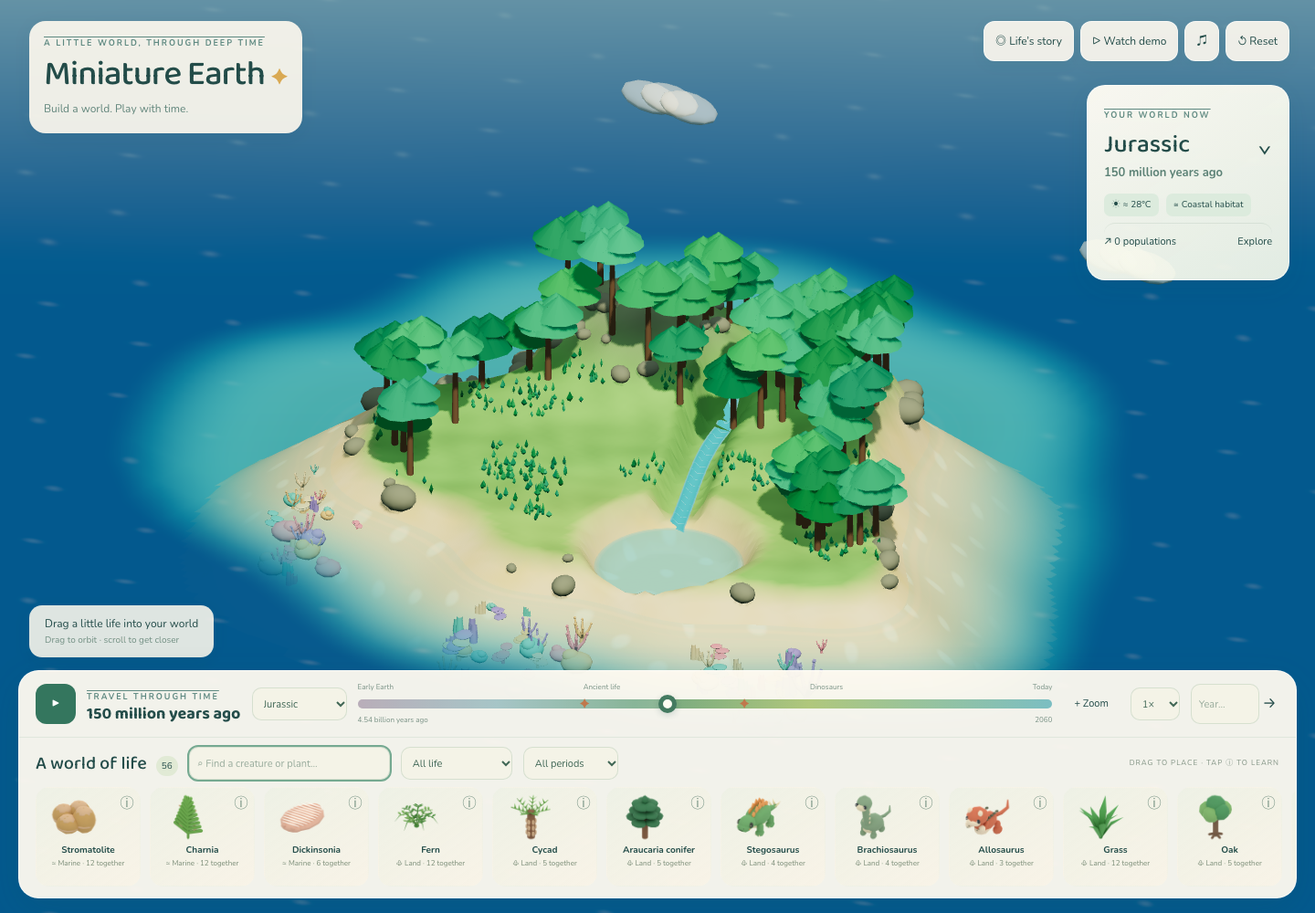
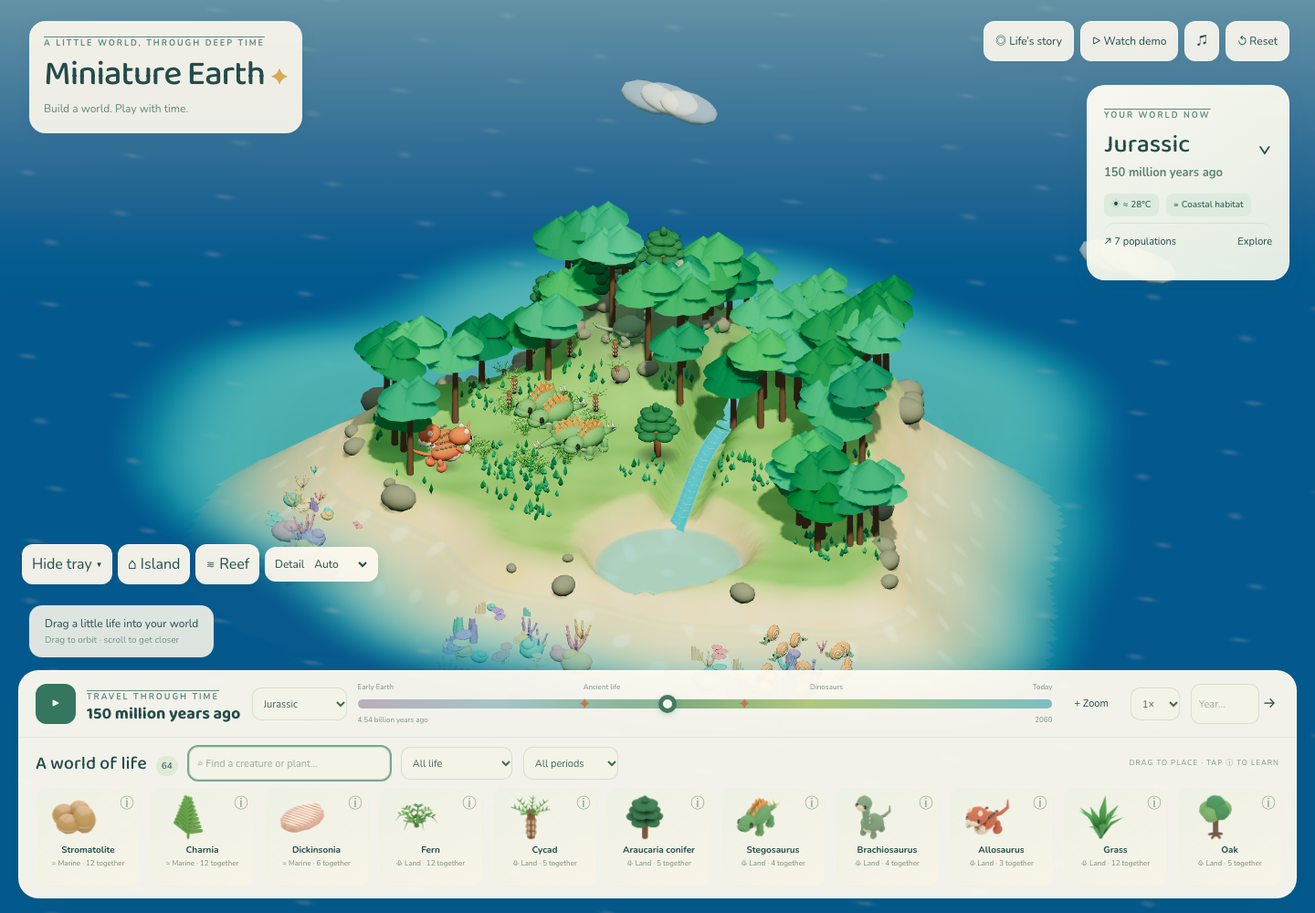
Milestone 7: polish mobile exploration and validate the complete MVP

diff --git a/src/ui/GameUI.tsx b/src/ui/GameUI.tsx
@@ -12,7 +12,8 @@ import {useDemo} from './demo';
 import {useAudio,playSound} from '../audio';
 import manifest from '../../public/models/manifest.json';
 const available=new Set(manifest.map(m=>m.id));
-export function GameUI(){useAutoplay();useAudio();useDemo();const g=useGame(),sim=useSimState(),era=eraAt(sim.year),[query,setQuery]=useState(''),[category,setCategory]=useState('All life'),[period,setPeriod]=useState('All periods'),[panel,setPanel]=useState<'world'|'populations'|'lineage'|null>(null),[zoom,setZoom]=useState(false),[notice,setNotice]=useState(''),[date,setDate]=useState('');const track=useRef<HTMLDivElement>(null);
+export function GameUI(){useAutoplay();useAudio();useDemo();const g=useGame(),sim=useSimState(),era=eraAt(sim.year),[collapsed,setCollapsed]=useState(false),[query,setQuery]=useState(''),[category,setCategory]=useState('All life'),[period,setPeriod]=useState('All periods'),[panel,setPanel]=useState<'world'|'populations'|'lineage'|null>(null),[zoom,setZoom]=useState(false),[notice,setNotice]=useState(''),[date,setDate]=useState('');const track=useRef<HTMLDivElement>(null);
+useEffect(()=>{if(typeof matchMedia!=='function')return;const media=matchMedia('(max-width:700px)');const change=()=>setCollapsed(media.matches);change();media.addEventListener('change',change);return()=>media.removeEventListener('change',change)},[]);
 useEffect(()=>{const deck=document.querySelector('.explorer-dock');if(!deck||typeof ResizeObserver==='undefined')return;const r=new ResizeObserver(()=>document.documentElement.style.setProperty('--dock-height',deck.getBoundingClientRect().height+'px'));r.observe(deck);return()=>r.disconnect()},[]);
 useEffect(()=>{const handler=(e:Event)=>{setNotice((e as CustomEvent<string>).detail)};window.addEventListener('placement-notice',handler);return()=>window.removeEventListener('placement-notice',handler)},[]);
 useEffect(()=>{if(notice){const timer=setTimeout(()=>setNotice(''),4200);return()=>clearTimeout(timer)}},[notice]);
@@ -25,6 +26,6 @@ return <div className={'overhaul-ui'+(g.focused?' organism-open':'')}><header cl
 <aside className="world-card"><span className="overline">YOUR WORLD NOW</span><button className="era-heading" onClick={()=>setPanel(panel==='world'?null:'world')}><span>{era.name}</span><span>⌄</span></button><strong>{sim.yearLabel}</strong><div className="climate-chips"><span>☀ ≈ {sim.env.temp.toFixed(0)}°C</span><span>≋ {era.marine?'Ancient coast':'Coastal habitat'}</span></div><button className="population-link" onClick={()=>setPanel(panel==='populations'?null:'populations')}>↗ {Object.values(sim.populations).filter(n=>n>0).length} populations <span>Explore</span></button></aside>
 {panel&&<aside className="detail-panel"><button className="close" aria-label="Close panel" onClick={()=>setPanel(null)}>×</button>{panel==='world'?<><span className="overline">REPRESENTATIVE HABITAT</span><h2>{era.climate}</h2><p>{era.description}</p><p><b>Oxygen:</b> {era.oxygen}</p><small>Landscape and local temperature are illustrative game settings. Historical conditions varied widely.</small></>:panel==='populations'?<><h2>A living balance</h2><p>Resident populations share the ecosystem with your added groups. Historical communities are curated regional snapshots; their scene windows do not force extinction of your experiments. Rendered animals represent the simulated population.</p>{Object.entries(sim.populations).map(([id,n])=><button className="population-row" key={id} onClick={()=>g.focus(id)}><span>{byId[id].name}</span><b>{Math.round(n)}</b><small>{n===0?'extinct':n<4?'struggling':'living'}</small></button>)}{!g.placements.length&&<p>Drag an organism into the world to add your own group.</p>}</>:<Lineages/>}</aside>}
 {g.focused&&<aside className="organism-detail"><button className="close" aria-label="Close organism" onClick={()=>g.focus(null)}>×</button><img src={'/icons/org_'+g.focused+'.png'} alt=""/><span className="overline">MEET YOUR NEIGHBOUR</span><h2>{byId[g.focused].name}</h2>{metadata(byId[g.focused]).scientificName&&<i>{metadata(byId[g.focused]).scientificName}</i>}<p>{byId[g.focused].fact}</p><p className="suitability">{suitability(byId[g.focused],sim.year)}</p><p>{metadata(byId[g.focused]).habitat} · {categoryOf(byId[g.focused])}</p><ScienceDetails id={g.focused} sim={sim}/><StoryDetails id={g.focused}/><button className="primary" onClick={()=>{g.selectSpecies(g.focused);g.focus(null)}}>Place a group of {groupSize(byId[g.focused])}</button></aside>}
-<ViewControls/><div className="world-instruction">{notice||g.caption||(g.selectedSpeciesId?`Drop ${byId[g.selectedSpeciesId].name} on ${byId[g.selectedSpeciesId].zone==='sea'?'water':'land'} · Esc to cancel`:'Drag a little life into your world')} {!g.selectedSpeciesId&&!notice&&<span>Drag to orbit · scroll to get closer</span>}</div>
-<section className="explorer-dock"><div className="time-controls"><button className="play-or-pause" aria-label={g.playing?'Pause':'Play'} onClick={g.togglePlay}>{g.playing?'Ⅱ':'▶'}</button><div className="time-now"><span className="overline">TRAVEL THROUGH TIME</span><b>{sim.yearLabel}</b></div><select aria-label="Geological period" value={era.id} onChange={e=>{const p=eras.find(v=>v.id===e.target.value)!;g.setTick(yearToTick(p.snap));playSound('whoosh')}}>{eras.map(p=><option value={p.id} key={p.id}>{p.name}</option>)}</select><div className="timeline-area"><div className="era-labels"><span>Early Earth</span><span>Ancient life</span><span>Dinosaurs</span><span>Today</span></div><div className="time-track" ref={track} role="slider" tabIndex={0} aria-label="Earth timeline" aria-valuemin={start} aria-valuemax={end} aria-valuenow={g.tick} aria-valuetext={sim.yearLabel} onPointerDown={e=>{e.currentTarget.setPointerCapture(e.pointerId);scrub(e)}} onPointerMove={e=>{if(e.buttons===1)scrub(e)}}><div className="track-fill" style={{width:`${(g.tick-start)/(end-start)*100}%`}}/><i style={{left:`${(g.tick-start)/(end-start)*100}%`}}/>{[-252e6,-66e6].map(y=><b title={y===-252e6?'End-Permian extinction':'End-Cretaceous extinction'} key={y} style={{left:`${(yearToTick(y)-start)/(end-start)*100}%`}}>✦</b>)}</div><div className="track-dates"><span>{formatYear(tickToYear(start))}</span><span>{formatYear(tickToYear(end))}</span></div></div><button className={zoom?'chosen':''} onClick={()=>setZoom(!zoom)}>{zoom?'− All time':'+ Zoom'}</button><select aria-label="Playback speed" value={g.speed} onChange={e=>g.setSpeed(Number(e.target.value) as 1|4|16)}>{[1,4,16].map(n=><option key={n} value={n}>{n}×</option>)}</select><form onSubmit={e=>{e.preventDefault();if(Number.isFinite(Number(date)))g.setTick(yearToTick(Number(date)))}}><input aria-label="Go to year (negative for BCE)" type="number" placeholder="Year…" value={date} onChange={e=>setDate(e.target.value)}/><button aria-label="Go to year">→</button></form>{sim.year>=2026&&<div className="future-switch">{(['Protect','Exploit'] as const).map(s=><button key={s} className={g.scenario===s?'chosen':''} onClick={()=>g.setScenario(s)}>{s}</button>)}</div>}</div>
+<ViewControls collapsed={collapsed} toggle={()=>setCollapsed(!collapsed)}/><div className="world-instruction">{notice||g.caption||(g.selectedSpeciesId?`Drop ${byId[g.selectedSpeciesId].name} on ${byId[g.selectedSpeciesId].zone==='sea'?'water':'land'} · Esc to cancel`:'Drag a little life into your world')} {!g.selectedSpeciesId&&!notice&&<span>Drag to orbit · scroll to get closer</span>}</div>
+<section className={'explorer-dock'+(collapsed?' catalogue-collapsed':'')}><div className="time-controls"><button className="play-or-pause" aria-label={g.playing?'Pause':'Play'} onClick={g.togglePlay}>{g.playing?'Ⅱ':'▶'}</button><div className="time-now"><span className="overline">TRAVEL THROUGH TIME</span><b>{sim.yearLabel}</b></div><select aria-label="Geological period" value={era.id} onChange={e=>{const p=eras.find(v=>v.id===e.target.value)!;g.setTick(yearToTick(p.snap));playSound('whoosh')}}>{eras.map(p=><option value={p.id} key={p.id}>{p.name}</option>)}</select><div className="timeline-area"><div className="era-labels"><span>Early Earth</span><span>Ancient life</span><span>Dinosaurs</span><span>Today</span></div><div className="time-track" ref={track} role="slider" tabIndex={0} aria-label="Earth timeline" aria-valuemin={start} aria-valuemax={end} aria-valuenow={g.tick} aria-valuetext={sim.yearLabel} onPointerDown={e=>{e.currentTarget.setPointerCapture(e.pointerId);scrub(e)}} onPointerMove={e=>{if(e.buttons===1)scrub(e)}}><div className="track-fill" style={{width:`${(g.tick-start)/(end-start)*100}%`}}/><i style={{left:`${(g.tick-start)/(end-start)*100}%`}}/>{[-252e6,-66e6].map(y=><b title={y===-252e6?'End-Permian extinction':'End-Cretaceous extinction'} key={y} style={{left:`${(yearToTick(y)-start)/(end-start)*100}%`}}>✦</b>)}</div><div className="track-dates"><span>{formatYear(tickToYear(start))}</span><span>{formatYear(tickToYear(end))}</span></div></div><button className={zoom?'chosen':''} onClick={()=>setZoom(!zoom)}>{zoom?'− All time':'+ Zoom'}</button><select aria-label="Playback speed" value={g.speed} onChange={e=>g.setSpeed(Number(e.target.value) as 1|4|16)}>{[1,4,16].map(n=><option key={n} value={n}>{n}×</option>)}</select><form onSubmit={e=>{e.preventDefault();if(Number.isFinite(Number(date)))g.setTick(yearToTick(Number(date)))}}><input aria-label="Go to year (negative for BCE)" type="number" placeholder="Year…" value={date} onChange={e=>setDate(e.target.value)}/><button aria-label="Go to year">→</button></form>{sim.year>=2026&&<div className="future-switch">{(['Protect','Exploit'] as const).map(s=><button key={s} className={g.scenario===s?'chosen':''} onClick={()=>g.setScenario(s)}>{s}</button>)}</div>}</div>
 <div className="catalogue-header"><h2>A world of life <span>{filtered.length}</span></h2><input aria-label="Search organisms" placeholder="⌕ Find a creature or plant…" value={query} onChange={e=>setQuery(e.target.value)}/><select aria-label="Filter organism category" value={category} onChange={e=>setCategory(e.target.value)}>{['All life','Animals','Plants','Algae & microbes','Marine','Endangered'].map(c=><option key={c}>{c}</option>)}</select><select aria-label="Filter organism era" value={period} onChange={e=>setPeriod(e.target.value)}>{['All periods',...new Set(species.map(s=>s.era))].map(c=><option key={c}>{c}</option>)}</select><small>DRAG TO PLACE · TAP ⓘ TO LEARN</small></div><div className="life-cards">{filtered.map(s=><div key={s.id} className={'life-card '+(g.selectedSpeciesId===s.id?'selected':'')}><button className="drag-card" aria-label={'Place '+s.name} onPointerDown={e=>beginDrag(e,s.id)} onClick={()=>g.selectSpecies(s.id)}><img src={available.has(s.id)?'/icons/org_'+s.id+'.png':undefined} alt="" draggable={false}/><b>{s.name}</b><span>{s.zone==='sea'?'≈ Marine':'♧ Land'} · {groupSize(s)} together</span></button><button className="learn" aria-label={'Learn about '+s.name} onClick={()=>g.focus(s.id)}>ⓘ</button><Badge id={s.id}/></div>)}</div></section><Impact/></div>}

diff --git a/src/scene/World.tsx b/src/scene/World.tsx
@@ -1,4 +1,4 @@
-import {Suspense,useMemo,useRef,type ReactNode} from 'react';
+import {Suspense,useMemo,useRef,useEffect,type ReactNode} from 'react';
 import {Canvas,useThree,useFrame} from '@react-three/fiber';
 import {OrbitControls,OrthographicCamera,Html} from '@react-three/drei';
 import {ACESFilmicToneMapping,PCFSoftShadowMap,Color,Fog} from 'three';
@@ -6,7 +6,10 @@ import {RenderMetrics} from './RenderMetrics';
 import {Environment} from './Environment';
 import {useGame,useSimState} from '../state';
 import {eraAt,landscapeScale} from '../world';
-function AdaptiveResolution(){const {setDpr}=useThree(),sample=useRef({n:0,total:0,level:1});useFrame((_,dt)=>{const s=sample.current;if(s.n++<15)return;s.total+=dt;if(s.n===45){const avg=s.total/30;const level=avg>.055?.65:avg>.03?.8:1;if(level!==s.level){setDpr(level);s.level=level}}});return null}
+function AdaptiveResolution(){const {setDpr}=useThree(),sample=useRef({n:0,total:0,level:1,mode:'auto',first:true});
+ useEffect(()=>{const change=(e:Event)=>{const s=sample.current;s.mode=(e as CustomEvent<string>).detail;s.level=s.mode==='low'?.55:1;s.n=0;s.total=0;setDpr(s.level)};window.addEventListener('world-quality',change);return()=>window.removeEventListener('world-quality',change)},[setDpr]);
+ useFrame((_,dt)=>{const s=sample.current;if(s.mode!=='auto'||dt>.3)return;s.total+=dt;s.n++;if(s.n>=(s.first?45:90)){const avg=s.total/s.n;const target=avg>.055?.55:avg>.03?.75:avg<.022?1:s.level;const level=target<s.level?target:Math.min(target,s.level+.1);s.first=false;if(level!==s.level){s.level=level;setDpr(level)}s.n=0;s.total=0}});return null}
 function Sky({color}:{color:string}){const {scene}=useThree(),target=useMemo(()=>new Color(color),[color]);useFrame((_,dt)=>{if(scene.background instanceof Color)scene.background.lerp(target,1-Math.exp(-dt*3));if(scene.fog instanceof Fog)scene.fog.color.lerp(target,1-Math.exp(-dt*3))});return null}
-function Diorama({children}:{children:ReactNode}){const {size}=useThree(),sim=useSimState(),era=eraAt(sim.year),selected=useGame(s=>s.selectedSpeciesId),scale=landscapeScale(sim.year),zoom=Math.min(size.width/(size.width<800?40:48),size.height/39)/scale;return <><color attach="background" args={["#bee6e7"]}/><fog attach="fog" args={["#bee6e7",65,145]}/><Sky color={era.sky}/><OrthographicCamera makeDefault position={[35,32,40]} zoom={zoom} near={.1} far={220}/><OrbitControls target={[0,1.4,0]} enablePan enableRotate={!selected} minPolarAngle={.45} maxPolarAngle={1.18} minZoom={zoom*.75} maxZoom={zoom*2.5} enableDamping/><hemisphereLight args={['#e7fbff','#59776b',1.3]}/><directionalLight key={era.id} shadow-autoUpdate={false} shadow-needsUpdate={true} position={[15,28,12]} color="#fff0d2" intensity={3.2} castShadow shadow-mapSize={[1024,1024]} shadow-camera-left={-34} shadow-camera-right={34} shadow-camera-top={34} shadow-camera-bottom={-34} shadow-normalBias={.045} shadow-bias={-.0001}/><Environment/>{children}<RenderMetrics/><AdaptiveResolution/></>}
+function Diorama({children}:{children:ReactNode}){const controls=useRef<React.ComponentRef<typeof OrbitControls>>(null);const {size,camera}=useThree(),sim=useSimState(),era=eraAt(sim.year),selected=useGame(s=>s.selectedSpeciesId),scale=landscapeScale(sim.year),zoom=Math.min(size.width/(size.width<800?40:48),size.height/39)/scale;
+ useEffect(()=>{const view=(e:Event)=>{const reef=(e as CustomEvent<string>).detail==='reef';if(!controls.current)return;controls.current.target.set(reef?12*scale:0,reef?-.4:1.4,reef?8*scale:0);camera.position.set(reef?28*scale:35,reef?19*scale:32,reef?30*scale:40);camera.zoom=zoom*(reef?2.2:1);camera.updateProjectionMatrix();controls.current.update()};window.addEventListener('world-camera',view);return()=>window.removeEventListener('world-camera',view)},[camera,zoom,scale]);return <><color attach="background" args={["#bee6e7"]}/><fog attach="fog" args={["#bee6e7",65,145]}/><Sky color={era.sky}/><OrthographicCamera makeDefault position={[35,32,40]} zoom={zoom} near={.1} far={220}/><OrbitControls ref={controls} target={[era.marine?8*scale:0,1.4,era.marine?5*scale:0]} enablePan enableRotate={!selected} minPolarAngle={.45} maxPolarAngle={1.18} minZoom={zoom*.75} maxZoom={zoom*2.5} enableDamping/><hemisphereLight args={['#e7fbff','#59776b',1.3]}/><directionalLight key={era.id} shadow-autoUpdate={false} shadow-needsUpdate={true} position={[15,28,12]} color="#fff0d2" intensity={3.2} castShadow shadow-mapSize={[1024,1024]} shadow-camera-left={-34} shadow-camera-right={34} shadow-camera-top={34} shadow-camera-bottom={-34} shadow-normalBias={.045} shadow-bias={-.0001}/><Environment/>{children}<RenderMetrics/><AdaptiveResolution/></>}
 export function World({children}:{children?:ReactNode}){return <Canvas shadows={{type:PCFSoftShadowMap}} dpr={1} gl={{antialias:true,toneMapping:ACESFilmicToneMapping,toneMappingExposure:1}}><Suspense fallback={<Html center><div className="panel">Growing a little world…</div></Html>}><Diorama>{children}</Diorama></Suspense></Canvas>}

diff --git a/src/scene/BatchedOrganisms.tsx b/src/scene/BatchedOrganisms.tsx
@@ -3,7 +3,7 @@ import {mergeGeometries} from 'three/addons/utils/BufferGeometryUtils.js';
 import {useMemo,useRef,useEffect,useState} from 'react';
 import {useFrame,useThree} from '@react-three/fiber';
 import {useGLTF} from '@react-three/drei';
-import {CanvasTexture,Color,InstancedMesh,Matrix4,Mesh,Object3D} from 'three';
+import {CanvasTexture,Color,InstancedMesh,Matrix4,Mesh,MeshLambertMaterial,Object3D} from 'three';
 import {byId} from '../sim/simulation';
 import {terrainHeight,eraAt} from '../world';
 import {inZone} from '../state/positions';
@@ -14,8 +14,8 @@ export function BatchedOrganisms({id,items,year,neighbors}:{id:string;items:Rend
  const camera=useThree(state=>state.camera);const [distant,setDistant]=useState(()=>byId[id].height*camera.zoom<44);
  useFrame(()=>{const pixels=byId[id].height*camera.zoom;if(distant&&pixels>52)setDistant(false);else if(!distant&&pixels<40)setDistant(true)});
  const {scene}=useGLTF('/models/'+(distant?'lod/':'')+'org_'+id+'.glb');
- const parts=useMemo(()=>{scene.updateMatrixWorld(true);const parts:{mesh:Mesh;joint:Matrix4;relative:Matrix4;name:string}[]=[];scene.traverse(o=>{if(o instanceof Mesh){let owner:Object3D=o;while(owner.parent&&owner.parent.name!=='Root'&&owner.parent!==scene)owner=owner.parent;parts.push({mesh:o,joint:owner.matrixWorld.clone(),relative:owner.matrixWorld.clone().invert().multiply(o.matrixWorld),name:owner.name})}});if(distant&&parts.length){const copies=parts.map(p=>{const g=p.mesh.geometry.clone();g.applyMatrix4(p.mesh.matrixWorld);for(const key of Object.keys(g.attributes))if(!['position','normal','color'].includes(key))g.deleteAttribute(key);return g});const merged=mergeGeometries(copies);copies.forEach(g=>g.dispose());if(merged){const mesh=new Mesh(merged,parts[0].mesh.material);mesh.userData.mergedDistant=true;return [{mesh,joint:new Matrix4(),relative:new Matrix4(),name:'Body'}]}}return parts},[scene,distant]);
- useEffect(()=>()=>{parts.forEach(p=>{if(p.mesh.userData.mergedDistant)p.mesh.geometry.dispose()})},[parts,distant]);
+ const parts=useMemo(()=>{scene.updateMatrixWorld(true);const parts:{mesh:Mesh;joint:Matrix4;relative:Matrix4;name:string}[]=[];scene.traverse(o=>{if(o instanceof Mesh){let owner:Object3D=o;while(owner.parent&&owner.parent.name!=='Root'&&owner.parent!==scene)owner=owner.parent;parts.push({mesh:o,joint:owner.matrixWorld.clone(),relative:owner.matrixWorld.clone().invert().multiply(o.matrixWorld),name:owner.name})}});if(distant&&parts.length){const copies=parts.map(p=>{const g=p.mesh.geometry.clone();g.applyMatrix4(p.mesh.matrixWorld);for(const key of Object.keys(g.attributes))if(!['position','normal','color'].includes(key))g.deleteAttribute(key);return g});const merged=mergeGeometries(copies);copies.forEach(g=>g.dispose());if(merged){const mesh=new Mesh(merged,new MeshLambertMaterial({vertexColors:true}));mesh.userData.mergedDistant=true;return [{mesh,joint:new Matrix4(),relative:new Matrix4(),name:'Body'}]}}return parts},[scene,distant]);
+ useEffect(()=>()=>{parts.forEach(p=>{if(p.mesh.userData.mergedDistant){p.mesh.geometry.dispose();(p.mesh.material as MeshLambertMaterial).dispose()}})},[parts,distant]);
  const contact=useRef<InstancedMesh>(null),contactTransform=useMemo(()=>new Object3D(),[]),shadow=useMemo(()=>{const c=document.createElement('canvas');c.width=c.height=32;const ctx=c.getContext('2d')!,g=ctx.createRadialGradient(16,16,0,16,16,16);g.addColorStop(0,'rgba(25,45,30,.3)');g.addColorStop(1,'rgba(25,45,30,0)');ctx.fillStyle=g;ctx.fillRect(0,0,32,32);return new CanvasTexture(c)},[]);useEffect(()=>()=>shadow.dispose(),[shadow]);
  const motions=useRef(new Map<string,AnimalMotion>());
  useEffect(()=>{motions.current.clear();births.current.clear()},[eraAt(year).id]);

diff --git a/src/ui/ViewControls.tsx b/src/ui/ViewControls.tsx
@@ -1,2 +1,2 @@
 import {useState} from 'react';
-export function ViewControls(){const [quality,setQuality]=useState('auto');return <div className="view-controls"><button onClick={()=>window.dispatchEvent(new CustomEvent('world-camera',{detail:'overview'}))}>⌂ Island</button><button onClick={()=>window.dispatchEvent(new CustomEvent('world-camera',{detail:'reef'}))}>≋ Reef</button><label>Detail <select aria-label="Render quality" value={quality} onChange={e=>{setQuality(e.target.value);window.dispatchEvent(new CustomEvent('world-quality',{detail:e.target.value}))}}><option value="auto">Auto</option><option value="low">Smooth</option><option value="high">Crisp</option></select></label></div>}
+export function ViewControls({collapsed,toggle}:{collapsed:boolean;toggle:()=>void}){const [quality,setQuality]=useState('auto');return <div className="view-controls"><button aria-expanded={!collapsed} onClick={toggle}>{collapsed?'Browse life ▴':'Hide tray ▾'}</button><button onClick={()=>window.dispatchEvent(new CustomEvent('world-camera',{detail:'overview'}))}>⌂ Island</button><button onClick={()=>window.dispatchEvent(new CustomEvent('world-camera',{detail:'reef'}))}>≋ Reef</button><label>Detail <select aria-label="Render quality" value={quality} onChange={e=>{setQuality(e.target.value);window.dispatchEvent(new CustomEvent('world-quality',{detail:e.target.value}))}}><option value="auto">Auto</option><option value="low">Smooth</option><option value="high">Crisp</option></select></label></div>}

diff --git a/src/styles/global.css b/src/styles/global.css
@@ -26,3 +26,7 @@ body {
 canvas { display: block; }
 
 ::selection { background: #8cc15255; }
+
+.view-controls{position:absolute;left:24px;bottom:calc(var(--dock-height,240px) + 110px);display:flex;gap:6px;align-items:center;pointer-events:auto}.view-controls button,.view-controls label{background:#fff9eef0;border:1px solid #fff8;border-radius:12px;padding:5px 10px;box-shadow:0 3px 12px #26323815}.view-controls label{font-size:12px}.view-controls select{background:transparent;padding:4px}.lineage>div{display:flex;flex-direction:column;align-items:center;width:100%}.lineage>div button{width:100%}@media(max-width:700px){.view-controls{left:12px;bottom:calc(var(--dock-height,240px) + 95px)}.view-controls button,.view-controls label{padding:3px 6px;font-size:12px}}
+
+.catalogue-collapsed .catalogue-header,.catalogue-collapsed .life-cards{display:none}

diff --git a/src/scene/RenderMetrics.tsx b/src/scene/RenderMetrics.tsx
@@ -1,4 +1,4 @@
 import {useFrame} from '@react-three/fiber';
 declare global {interface Window {__renderMetrics?:{calls:number;triangles:number;geometries:number;frameMs:number}}}
 /** Opt-in QA instrumentation; no timers, storage or telemetry. */
-export function RenderMetrics(){useFrame(({gl},dt)=>{if(new URLSearchParams(location.search).has('profile'))window.__renderMetrics={calls:gl.info.render.calls,triangles:gl.info.render.triangles,geometries:gl.info.memory.geometries,frameMs:dt*1000}});return null}
+export function RenderMetrics(){const enabled=new URLSearchParams(location.search).has('profile');useFrame(({gl},dt)=>{if(enabled)window.__renderMetrics={calls:gl.info.render.calls,triangles:gl.info.render.triangles,geometries:gl.info.memory.geometries,frameMs:dt*1000}});return null}

diff --git a/src/state/communities.ts b/src/state/communities.ts
@@ -1,8 +1,8 @@
 import type {Placement} from '../sim/types';
 import {yearToTick} from '../sim/timeline';
 /** Curated regional snapshots. Windows are scene coverage, not claimed taxon origination dates.
- * Resident patches exchange individuals with the surrounding representative habitat.
- * Player populations never receive this migration or historical retirement. */
+ * Each patch is introduced once, then follows the same ecology as player populations.
+ * Player populations never receive historical retirement. */
 type Patch=[id:string,count:number,x:number,z:number];
 interface Community {id:string;start:number;end:number;patches:Patch[]}
 export const communities:Community[]=[

diff --git a/art/validate_lods.py b/art/validate_lods.py
@@ -19,5 +19,6 @@ for path in sorted((BASE/'public/models/lod').glob('org_*.glb')):
  assert total<sum(full['accessors'][p['indices']]['count']//3 for m in full['meshes'] for p in m['primitives'])
  report[path.stem]={'triangles':total,'parts':names(doc),'pass':True}
  print('PASS LOD',path.stem,total,flush=True)
-assert len(report)==56
+expected={'org_'+s['id'] for s in json.loads((BASE/'src/sim/data/species.json').read_text())}
+assert set(report)==expected, {'missing':sorted(expected-set(report)),'unexpected':sorted(set(report)-expected)}
 (BASE/'art/reports/lod-validation.json').write_text(json.dumps(report,indent=2)+'\n')

diff --git a/qa/COMPLETION_REVIEW.md b/qa/COMPLETION_REVIEW.md
@@ -1,0 +1,64 @@
+# Miniature Earth — milestone completion review
+
+Completed the seven implementation milestones as a curated browser-game MVP. This is not a claim that every aspirational species or a commercially finished release is complete. All work remains local; no push or deployment.
+
+| Milestone | Result | Evidence |
+| --- | --- | --- |
+| 1. Visual foundation | PASS | Expanded modern island, terrain relief, procedural materials, foliage, atmospheric lighting; retained and visually reviewed. |
+| 2. Oceans and underwater worlds | PASS | Animated depth-coloured water, surf, river highlights, caustics, era-specific reef structures and marine communities; dedicated reef camera. |
+| 3. Living historical ecosystems | PASS | Curated resident windows and era presets; required snapshots contain appropriate life, Hadean stays lifeless; deterministic replay and habitat tests. |
+| 4. Organism interaction | PASS | 64 authored organisms, eight new historical models, group placement, named joints, walking/swimming/flying/rest/forage/flee/pursuit. |
+| 5. Ecological simulation | PASS | Environmental stress, reproduction, finite prey sharing, competition, carrying capacity, disasters and deterministic extinction; pressure explanations. |
+| 6. Evolution | PASS | Inherited thermal variation, offspring mutation, differential survival and reproduction; three cited branching-history chapters. |
+| 7. Final polish | PASS for supported local checks | Mobile tray, camera and quality controls, clearer scene composition, bounded resource use, retained audio and tested controls. Native GPU acceptance remains unavailable. |
+
+## Verification
+
+- Strict TypeScript, production build and all **48 Vitest tests pass**.
+- **46 browser assertions/checks across seven suites**, including drag/drop, invalid habitats, historical scenes, scientific panels, trait replay, lineage navigation, model LOD, animated water, future scrubbing, reset/reload, quality controls and mobile catalogue expansion/collapse. No browser console/page errors.
+- All **67 full GLBs** (64 organisms + 3 retained legacy island assets) pass geometry, hierarchy, dimensions, triangle-budget and transparent-icon contracts.
+- All **64 distant GLBs** pass node identity, joint-transform, paint and index contracts. The checker now derives expected IDs from the catalogue instead of hard-coding 56.
+- All eight new full models and their eight distant variants pass glTF Transform inspection and Khronos validation without errors.
+- Opened and reviewed the complete contact sheet, historical showcase sheet, transparent icon and actual Hadean, Cambrian, Carboniferous, Jurassic, Cretaceous, Pleistocene, modern, reef and phone screenshots.
+- Applied visual corrections: enlarged sail and brow horns, stronger sloth shoulder/claws, fewer crowded dinosaurs, wider size-aware spacing, more visible ancient marine communities, separated controls/instructions and a collapsible mobile catalogue.
+
+### New model triangles
+
+| Model | Triangles | Budget |
+| --- | ---: | ---: |
+| Anomalocaris | 2,722 | 3,000 |
+| Ammonoid | 2,748 | 3,000 |
+| Dimetrodon | 2,754 | 3,000 |
+| Triceratops | 2,738 | 3,000 |
+| Pteranodon | 1,934 | 3,000 |
+| Giant ground sloth | 2,734 | 3,000 |
+| Tree lycophyte | 1,356 | 1,500 |
+| Ancient horsetail | 1,356 | 1,500 |
+
+## Performance
+
+Isolated 1280×800 headless Chromium, seed 42, same 12-deer/12-fish player fixture, now with the additional resident eagle group:
+
+- Median frame time **50.0 ms**, p95 **66.7 ms**.
+- 32 draw calls, 149,430 triangles, 33 geometries.
+- Previous water milestone: median 66.6 ms, p95 66.7 ms, 30 calls, 148,152 triangles. The fixture now includes extra birds, so this is an expanded workload rather than a strictly identical scene.
+- Faster initial adaptive resolution and cheaper distant-model lighting reduced median time about 25% relative to the previous recorded fixture. Close-up models retain their original materials; users can choose Crisp or Smooth quality.
+- Renderer identified as **SwiftShader software Vulkan**. About 20 fps in this environment is not a hardware 60 fps claim. Native Google Chrome profiling was attempted but its Crashpad bootstrap/settings access was denied by the macOS sandbox. This remains an external acceptance limitation.
+- Repeated future scrubbing keeps geometry count at 33 → 33.
+
+## Scope and remaining limitations
+
+Historical communities are curated regional snapshots, not a continuous reconstruction of every locality or all organisms across billions of years. Dates of scene introduction/retirement do not force player-added organisms extinct. Missing measured tolerances, detailed conservation assessment dates and unsupported taxon endpoints remain explicitly unknown. Detailed freshwater salinity, rigid-body collisions, full pathfinding, individual genetic simulation and speciation are outside this completed simplified implementation. Evolution uses three illustrative ±2°C variants in four mammal populations and 0.2% offspring mutation; it does not claim measured genetics or direct ancestor chains. Some consumer guilds use explicitly simplified background resources.
+
+The production bundle still emits a size advisory, and the test dependency emits a Three.js CommonJS deprecation advisory; neither is a failed build or runtime error. Physical desktop/phone frame rates need device-side acceptance. Additional species named as examples in the vision are not silently represented by modern substitutes.
+
+## Files and local history
+
+- Historical assets: `art/build_history.py`, `art/render_history.py`, `public/models/`, `public/icons/`, catalogue metadata and manifest.
+- Ecosystems: `src/state/communities.ts`, `residents.ts`, replay types/simulation, era profiles and vegetation.
+- Behavior/ecology: `src/sim/behavior.ts`, `ecosystem.ts`, `pressures.ts`, corresponding tests and scene batching.
+- Evolution: adaptation module/tests, `src/ui/Lineages.tsx`, scientific details and reference notes.
+- Polish: camera/quality controls, responsive tray, distant shading, adaptive resolution, QA scripts/reports/screenshots.
+- Local commits: milestone 3 `2dffec7`, milestone 4 `4061e1f`, milestone 5 `4184b46`, milestone 6 `8fd59b0`; final polish is committed after this review.
+
+No additional implementation milestone is queued from this seven-part MVP. Next acceptance step is the user's visual/play review and hardware performance testing. The pre-existing `.gitignore` change is preserved and excluded from commits. Deployment remains intentionally unperformed.

diff --git a/docs/OVERHAUL_REFERENCES.md b/docs/OVERHAUL_REFERENCES.md
@@ -49,3 +49,18 @@ Additional reviewed sources:
 Deer, rabbit, red fox and mammoth have three standing temperature-tolerance variants, shifting the game tolerance range by −2, 0 and +2°C. A new group starts 25/50/25%; offspring inherit parental variants without mutation. Birth contributions are weighted by temperature fitness, and mortality is weighted toward poorly suited variants. Death allocation is capped by available cohort size. Variant frequencies affect the species-level weighted temperature fitness used for ecological growth. Groups share carrying capacity and resources, so this is not a spatial genetics model.
 
 The simulation records cumulative births and reproductive turnover (births divided by the previous population). These fractional deterministic populations are teaching approximations, not individual genotypes, actual generation times or demographic predictions. Mortality can select standing variation even without births; reproduction transmits it. Extinct groups cannot generate new variants or resurrect. No animal morphing, automatic speciation or inevitable descendant chain is implemented. Cached trait vectors are deep-copied; rewind and branch replay include them.
+
+### Historical community and evolution completion (2026-10-16)
+The eight additions are original Blender-authored models. No downloaded art or textures are used. Palette, toy proportions, population constants and narrow community scene windows are design choices, not measured reconstructions. Windows in `src/state/communities.ts` are deliberately separate from verified taxon date fields. Broad-group flora, ammonoids and ground sloths do not imply one species persisted across the entire interval.
+
+- [Smithsonian Ocean Through Time](https://ocean.si.edu/through-time/ocean-through-time): Cambrian marine context and radiodont diversity.
+- [NHM ammonites](https://www.nhm.ac.uk/discover/what-is-an-ammonite.html): marine cephalopods and shell anatomy.
+- [Smithsonian Dimetrodon specimen](https://www.si.edu/object/nmnhpaleobiology_3451032): early Permian occurrence.
+- [NHM Triceratops](https://www.nhm.ac.uk/discover/dino-directory/triceratops.html): late Cretaceous genus.
+- [NHM pterosaurs](https://www.nhm.ac.uk/discover/the-truth-about-pterosaurs.html) and [Smithsonian Pteranodon specimen](https://www.si.edu/object/nmnhpaleobiology_3447928): flying reptile relationships, fish feeding evidence and Late Cretaceous occurrence.
+- [Florida Museum Aucilla](https://www.floridamuseum.ufl.edu/vertpaleo/aucilla-river-prehistory-project/) and [Mixson’s Bone Bed](https://www.floridamuseum.ufl.edu/florida-vertebrate-fossils/sites/mixsons-bone-bed/): Pleistocene and late Miocene ground-sloth evidence, respectively; the model represents a group, not a direct ancestral series.
+- [NPS plant fossils](https://www.nps.gov/subjects/fossils/plant-fossils.htm): horsetail joints/whorls, ancient swamp forests, ferns, seed plants and flowering-plant context.
+- [Brusatte et al., The Origin and Diversification of Birds](https://doi.org/10.1016/j.cub.2015.08.003): bird lineage within theropods. Reviewed the indexed primary-paper abstract; full article endpoint returned 403 in this session.
+- Exact GBIF matches are linked in individual metadata records. Unverified food, geographic limits, tolerance measurements and taxon range endpoints remain explicitly unknown.
+
+The mutation implementation is an illustrative deterministic frequency model: each birth cohort redistributes 0.2% of offspring equally to the other two thermal variants. It does not model DNA, speciation or validated taxon-specific mutation rates. Existing differential survival and reproductive weighting then alter the mixture. Visual pursuit does not independently kill prey; all population change is accounted for once by the ecological simulation.

diff --git a/PROGRESS.md b/PROGRESS.md
@@ -142,3 +142,19 @@ PASS: all existing ecological scenarios and replay/cache/branch tests; new prey 
 ## Master milestone 6 — Evolution — DONE (bounded MVP)
 Extended the inherited thermal-variation system with rare offspring mutation, preserving ecological population totals, reproduction-weighted inheritance and differential survival. Added three sourced evolutionary chapters: whales, birds within theropods, and major branches of land-plant history. UI distinguishes documented relationships, illustrative inherited adaptation and unmodeled speciation; no individual changes species.
 PASS: warm/cold selection, fitness feedback, neutral reproduction, absent variants without mutation, rare variants with mutation, no mutation without births, no resurrection, normalization, checkpoint isolation and deterministic replay. Prior ecology checks still pass. Limits: three ±2°C thermal variants in four mammal populations, not full genetics; 0.2% mutation is a teaching parameter. Next: final integrated browser, visual and performance acceptance.
+
+## Master milestone 7 — Final polish — DONE for the supported local MVP
+Added overview/reef camera controls, Auto/Smooth/Crisp render quality, faster adaptive resolution, cheaper distant-model diffuse lighting with explicit disposal, and mobile catalogue collapse/expand. Improved marine framing, reduced wildlife crowding, separated instruction/control panels and preserved the existing synthesized audio. Regenerated and opened the complete 67-model contact sheet. Fixed the old hard-coded LOD catalogue assertion and the DOM environment's missing matchMedia support.
+PASS: strict typecheck/build, 48 unit tests, 46 browser checks across seven suites, zero console/page errors, all full/distant asset contracts and all 16 new GLB inspections/Khronos validations. Final rendered historical, modern, reef and mobile scenes were opened and reviewed. Future geometry count remains 33 → 33.
+Final isolated software-renderer fixture: median 50.0 ms, p95 66.7 ms, 32 calls / 149,430 triangles. Previous water run was 66.6 ms median; this run also includes two new resident birds. This is roughly 25% less median frame time, not a physical-device 60fps claim. Hardware Chrome profiling is unavailable because the macOS sandbox denies native Crashpad access. The working headless fallback is explicitly identified as SwiftShader. Bundle-size and dependency-deprecation advisories remain non-fatal.
+See qa/COMPLETION_REVIEW.md for PASS/limitations, source notes, tests and the distinction between a completed curated MVP and the larger aspirational catalogue. No push/deployment. User's existing .gitignore edit remains outside commits.
+
+## Latest master milestone status
+1 Visual foundation — DONE (retained and reverified).
+2 Oceans and underwater worlds — DONE (retained, historical marine residents and reef camera added).
+3 Living historical ecosystems — DONE (curated regional snapshots).
+4 Organism interaction — DONE (64 authored organisms and modular behaviors).
+5 Ecological simulation — DONE (aggregate deterministic model).
+6 Evolution — DONE (bounded inherited-variation MVP and three histories).
+7 Final polish — DONE for supported local checks; native-GPU/phone acceptance remains external.
+Deployment is intentionally excluded under the user's latest instruction, regardless of older Phase M entries.

diff --git a/NOTES.md b/NOTES.md
@@ -161,3 +161,6 @@
 - Three lineage chapters describe branching relationships, not direct ancestor chains. Broad-group ground sloths and plants deliberately retain unknown precise range fields.
 - Rendered historical plants and large animals are capped more tightly to preserve open space. An animated bald-eagle pair joins the modern baseline.
 - Behavior steering is visual; the deterministic ecological model alone changes population totals, preventing duplicate predation or reproduction accounting.
+- Final headless benchmark uses SwiftShader software Vulkan, not a physical GPU; native Chrome profiling was blocked by macOS sandbox access to Crashpad. No 60 fps hardware claim is made.
+- Final quality policy responds after 45 initial frames and then 90-frame windows; automatic DPR ranges 0.55–1.0, with explicit Smooth/Crisp overrides. Distant-only materials use diffuse vertex-colour lighting; close models keep their authored materials.
+- Small-screen catalogue collapses by default to expose the world and can be reopened with Browse life; it does not remove any catalogue entries or controls.
